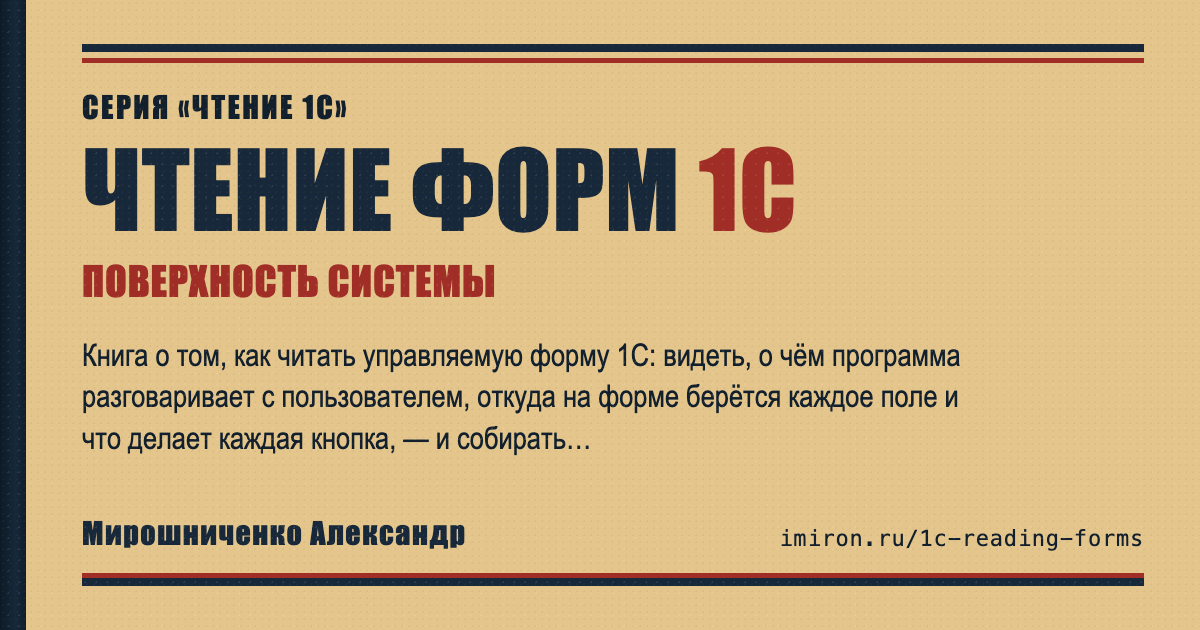
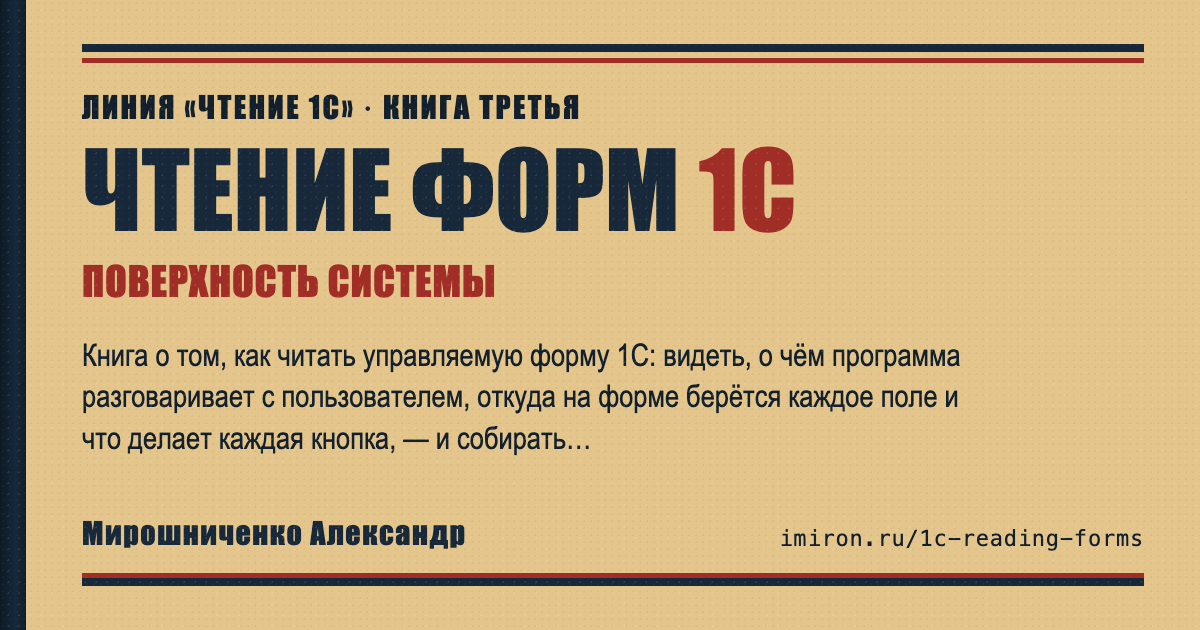
Шаблон v0.6.1: оформление серии, русский поиск, мета-теги, навигация
Книга подтянута с v0.2.1 до текущего шаблона:

- оформление сайта в стиле серии, тёмная тема по умолчанию;
- поиск, понимающий русский: родной поиск mdBook кириллицу отбрасывал
  ещё на сборке и не находил ничего;
- ответы раскрываются под вопросом, тап по тексту закрывает меню;
- оглавление разделов параграфа и кнопка «наверх»;
- мета-теги и карточка ссылки: книга в мессенджере больше не голый адрес;
- вёрстка EPUB и правила канона из версий 0.2.2–0.3.0.

Changed region(s): [[0.0617, 0.1508, 0.4933, 0.2111]]

diff --git a/scripts/og-image.py b/scripts/og-image.py
@@ -11,6 +11,7 @@
 Запуск: python3 scripts/og-image.py [metadata.yaml]
 """
 
+import html
 import os
 import subprocess
 import sys
@@ -88,6 +89,9 @@ def readme_pitch(path="README.md", limit=180):
     if not os.path.exists(path):
         return ""
     text = re.sub(r"(?s)\A---.*?---\n", "", open(path, encoding="utf-8").read())
+    # README, оставшийся от шаблона, рассказывает про шаблон, а не про книгу
+    if re.search(r"^#\s.*book-template", text, flags=re.M):
+        return ""
     for block in text.split("\n\n"):
         # по канону серии строка о книге стоит цитатой сразу под названием
         block = " ".join(re.sub(r"(?m)^>\s?", "", block).split())
@@ -96,7 +100,14 @@ def readme_pitch(path="README.md", limit=180):
             continue
         if "](" in block or "http" in block:
             continue
-        block = re.sub(r"[*_`]", "", block)
+        block = re.sub(r"<[^>]+>", "", block)
+        block = re.sub(r"!\[[^\]]*\]\([^)]*\)", "", block)
+        block = re.sub(r"[*_`]", "", block).strip()
+        # README, который ещё не переписан под книгу, рассказывает о шаблоне
+        if "Шаблон репозитория" in block or "Use this template" in block:
+            continue
+        if len(block) < 60:
+            continue
         if len(block) > limit:
             block = block[:limit].rsplit(" ", 1)[0] + "…"
         return block
@@ -113,15 +124,18 @@ def main():
     author = str(data.get("author") or "")
     author = author.split("(")[0].strip()
     site = str(data.get("site_url") or "").replace("https://", "").rstrip("/")
-    series = str(data.get("series") or "Серия «Чтение 1С»")
+    # Строка серии — только если книга и правда в серии.
+    series = str(data.get("series") or "")
     pitch = str(data.get("pitch") or "") or readme_pitch()
 
     # «1С» в названии — красным, как на обложке
     marked = title.replace("1С", '<span class="mark">1С</span>')
     size = 104 if len(title) <= 18 else (86 if len(title) <= 26 else 62)
 
-    page = PAGE.format(title=marked, subtitle=subtitle, author=author,
-                       site=site, series=series, size=size, pitch=pitch)
+    page = PAGE.format(title=marked, subtitle=html.escape(subtitle),
+                       author=html.escape(author), site=html.escape(site),
+                       series=html.escape(series), size=size,
+                       pitch=html.escape(pitch))
 
     out_dir = os.path.join("assets", "img")
     os.makedirs(out_dir, exist_ok=True)

diff --git a/scripts/search-index.py b/scripts/search-index.py
@@ -202,7 +202,10 @@ class PageReader(HTMLParser):
         if tag in ("h1", "h2") and self._heading == tag:
             if tag == "h1":
                 self.title = " ".join("".join(self._cur["h"]).split())
-                self._cur = None
+                # Текст до первого подзаголовка — это «Открытие» параграфа, а в
+                # некоторых книгах и весь параграф: без него поиск слеп.
+                self._cur = {"h": "", "a": "", "x": []}
+                self.sections.append(self._cur)
             else:
                 self._cur["h"] = " ".join("".join(self._cur["h"]).split())
             self._heading = None
